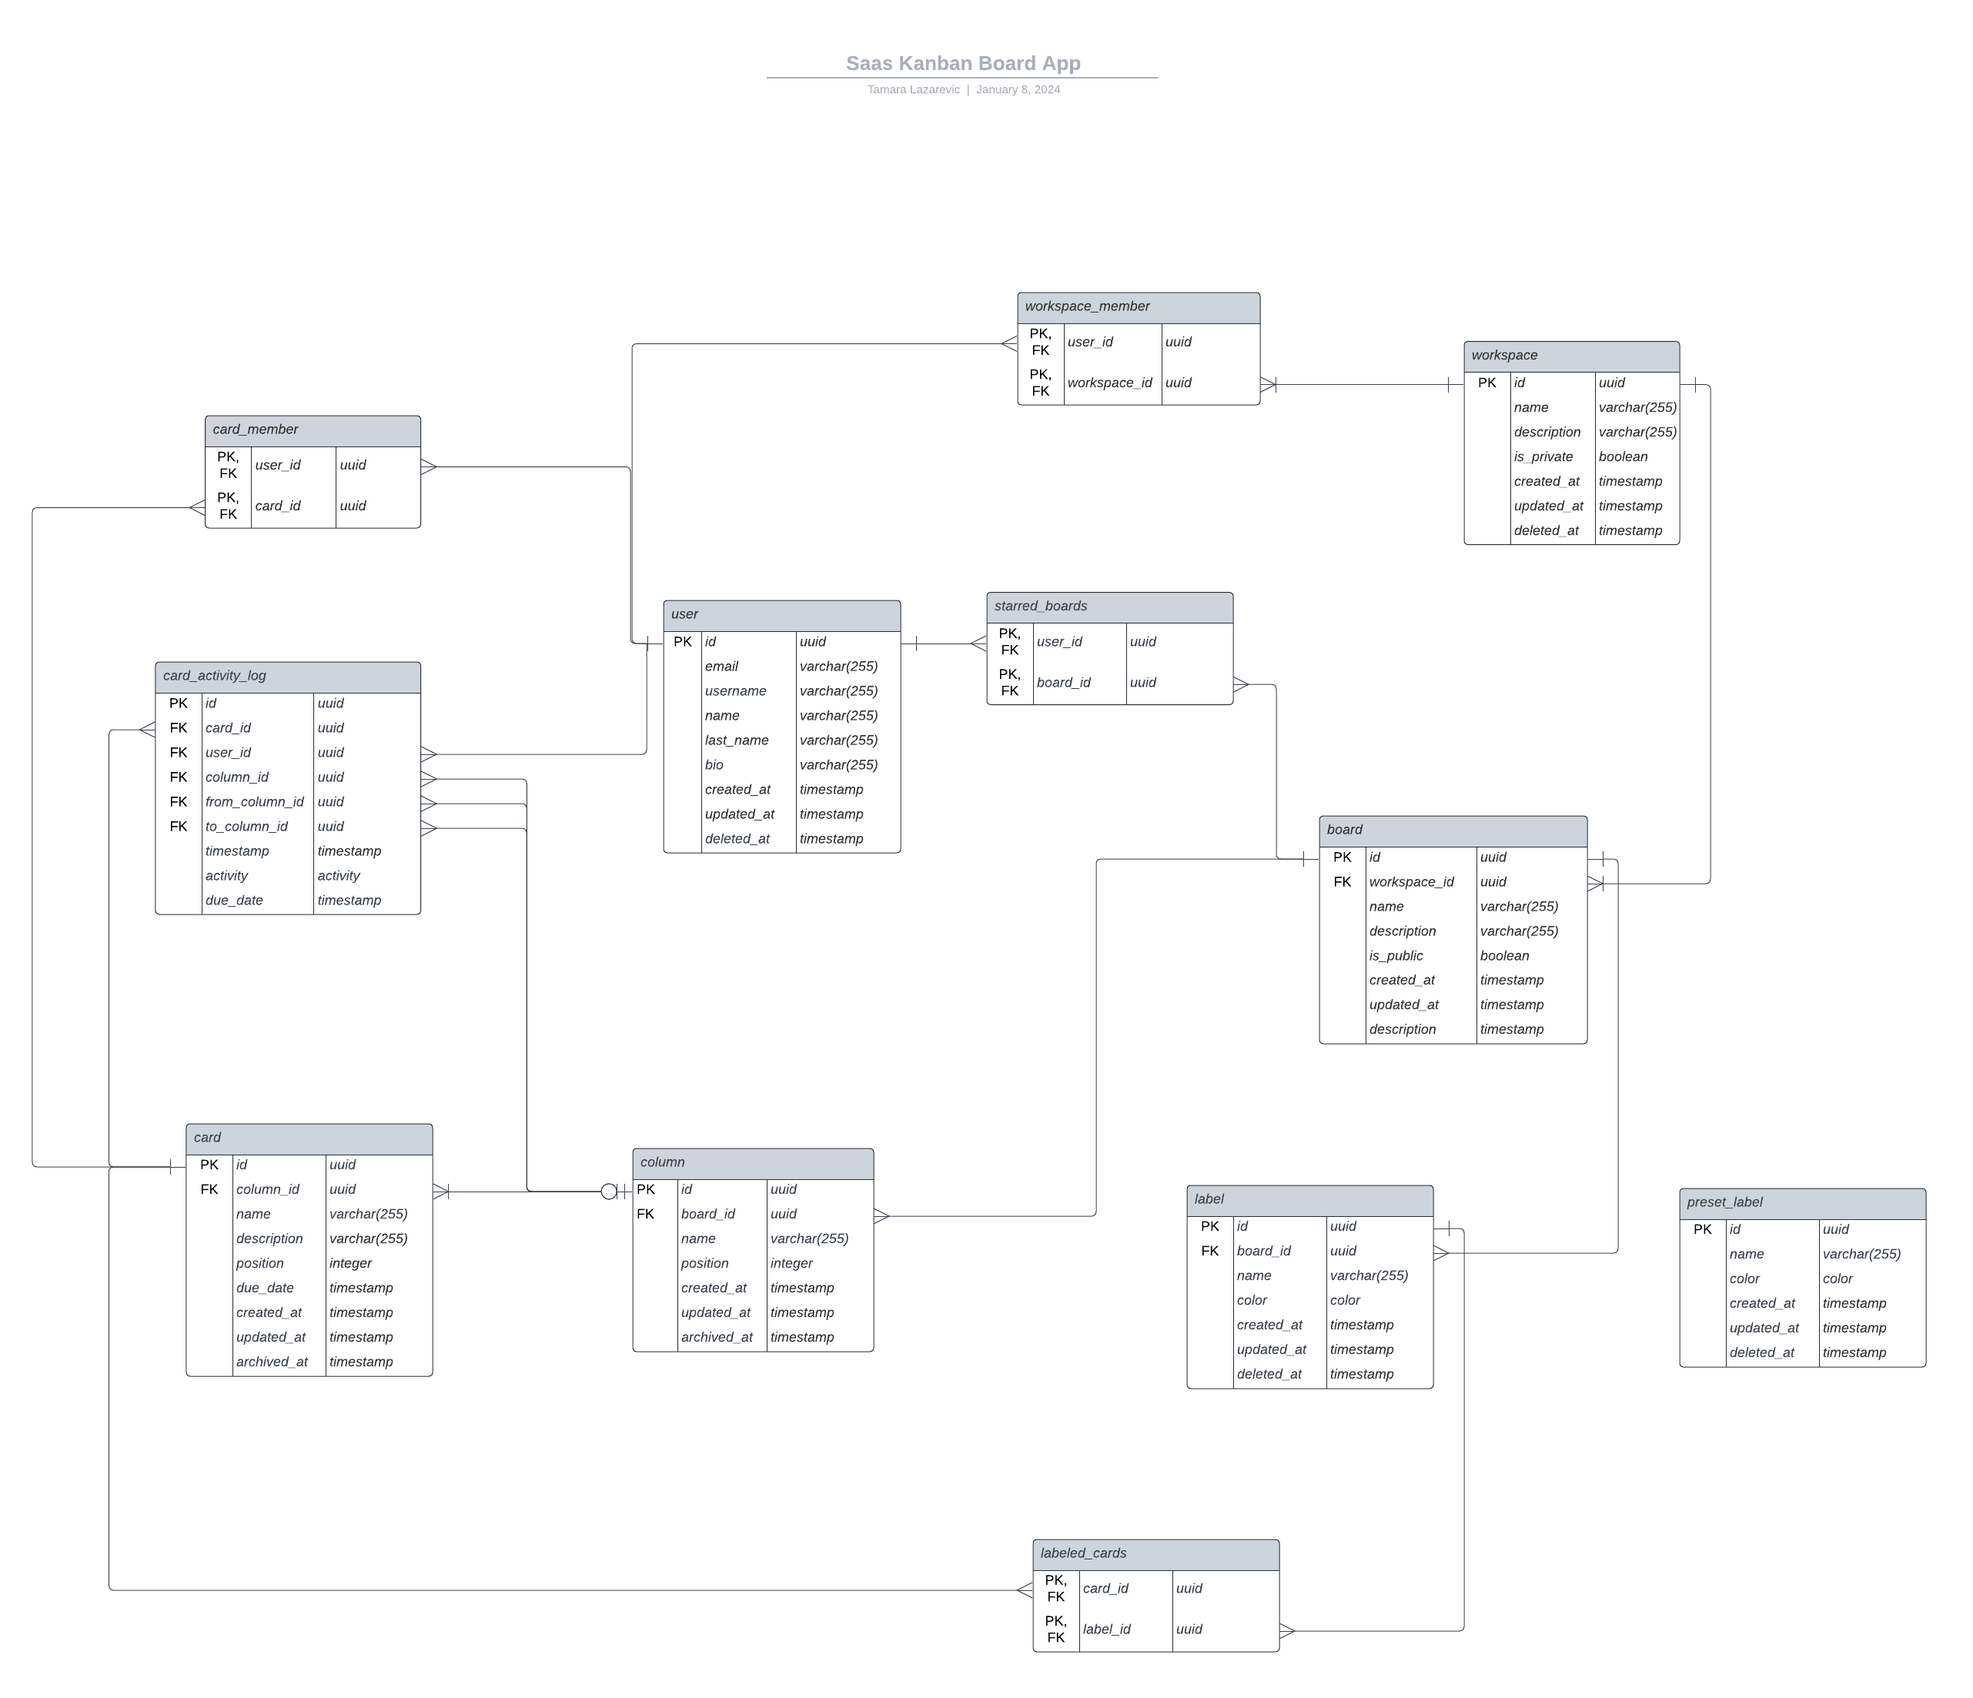
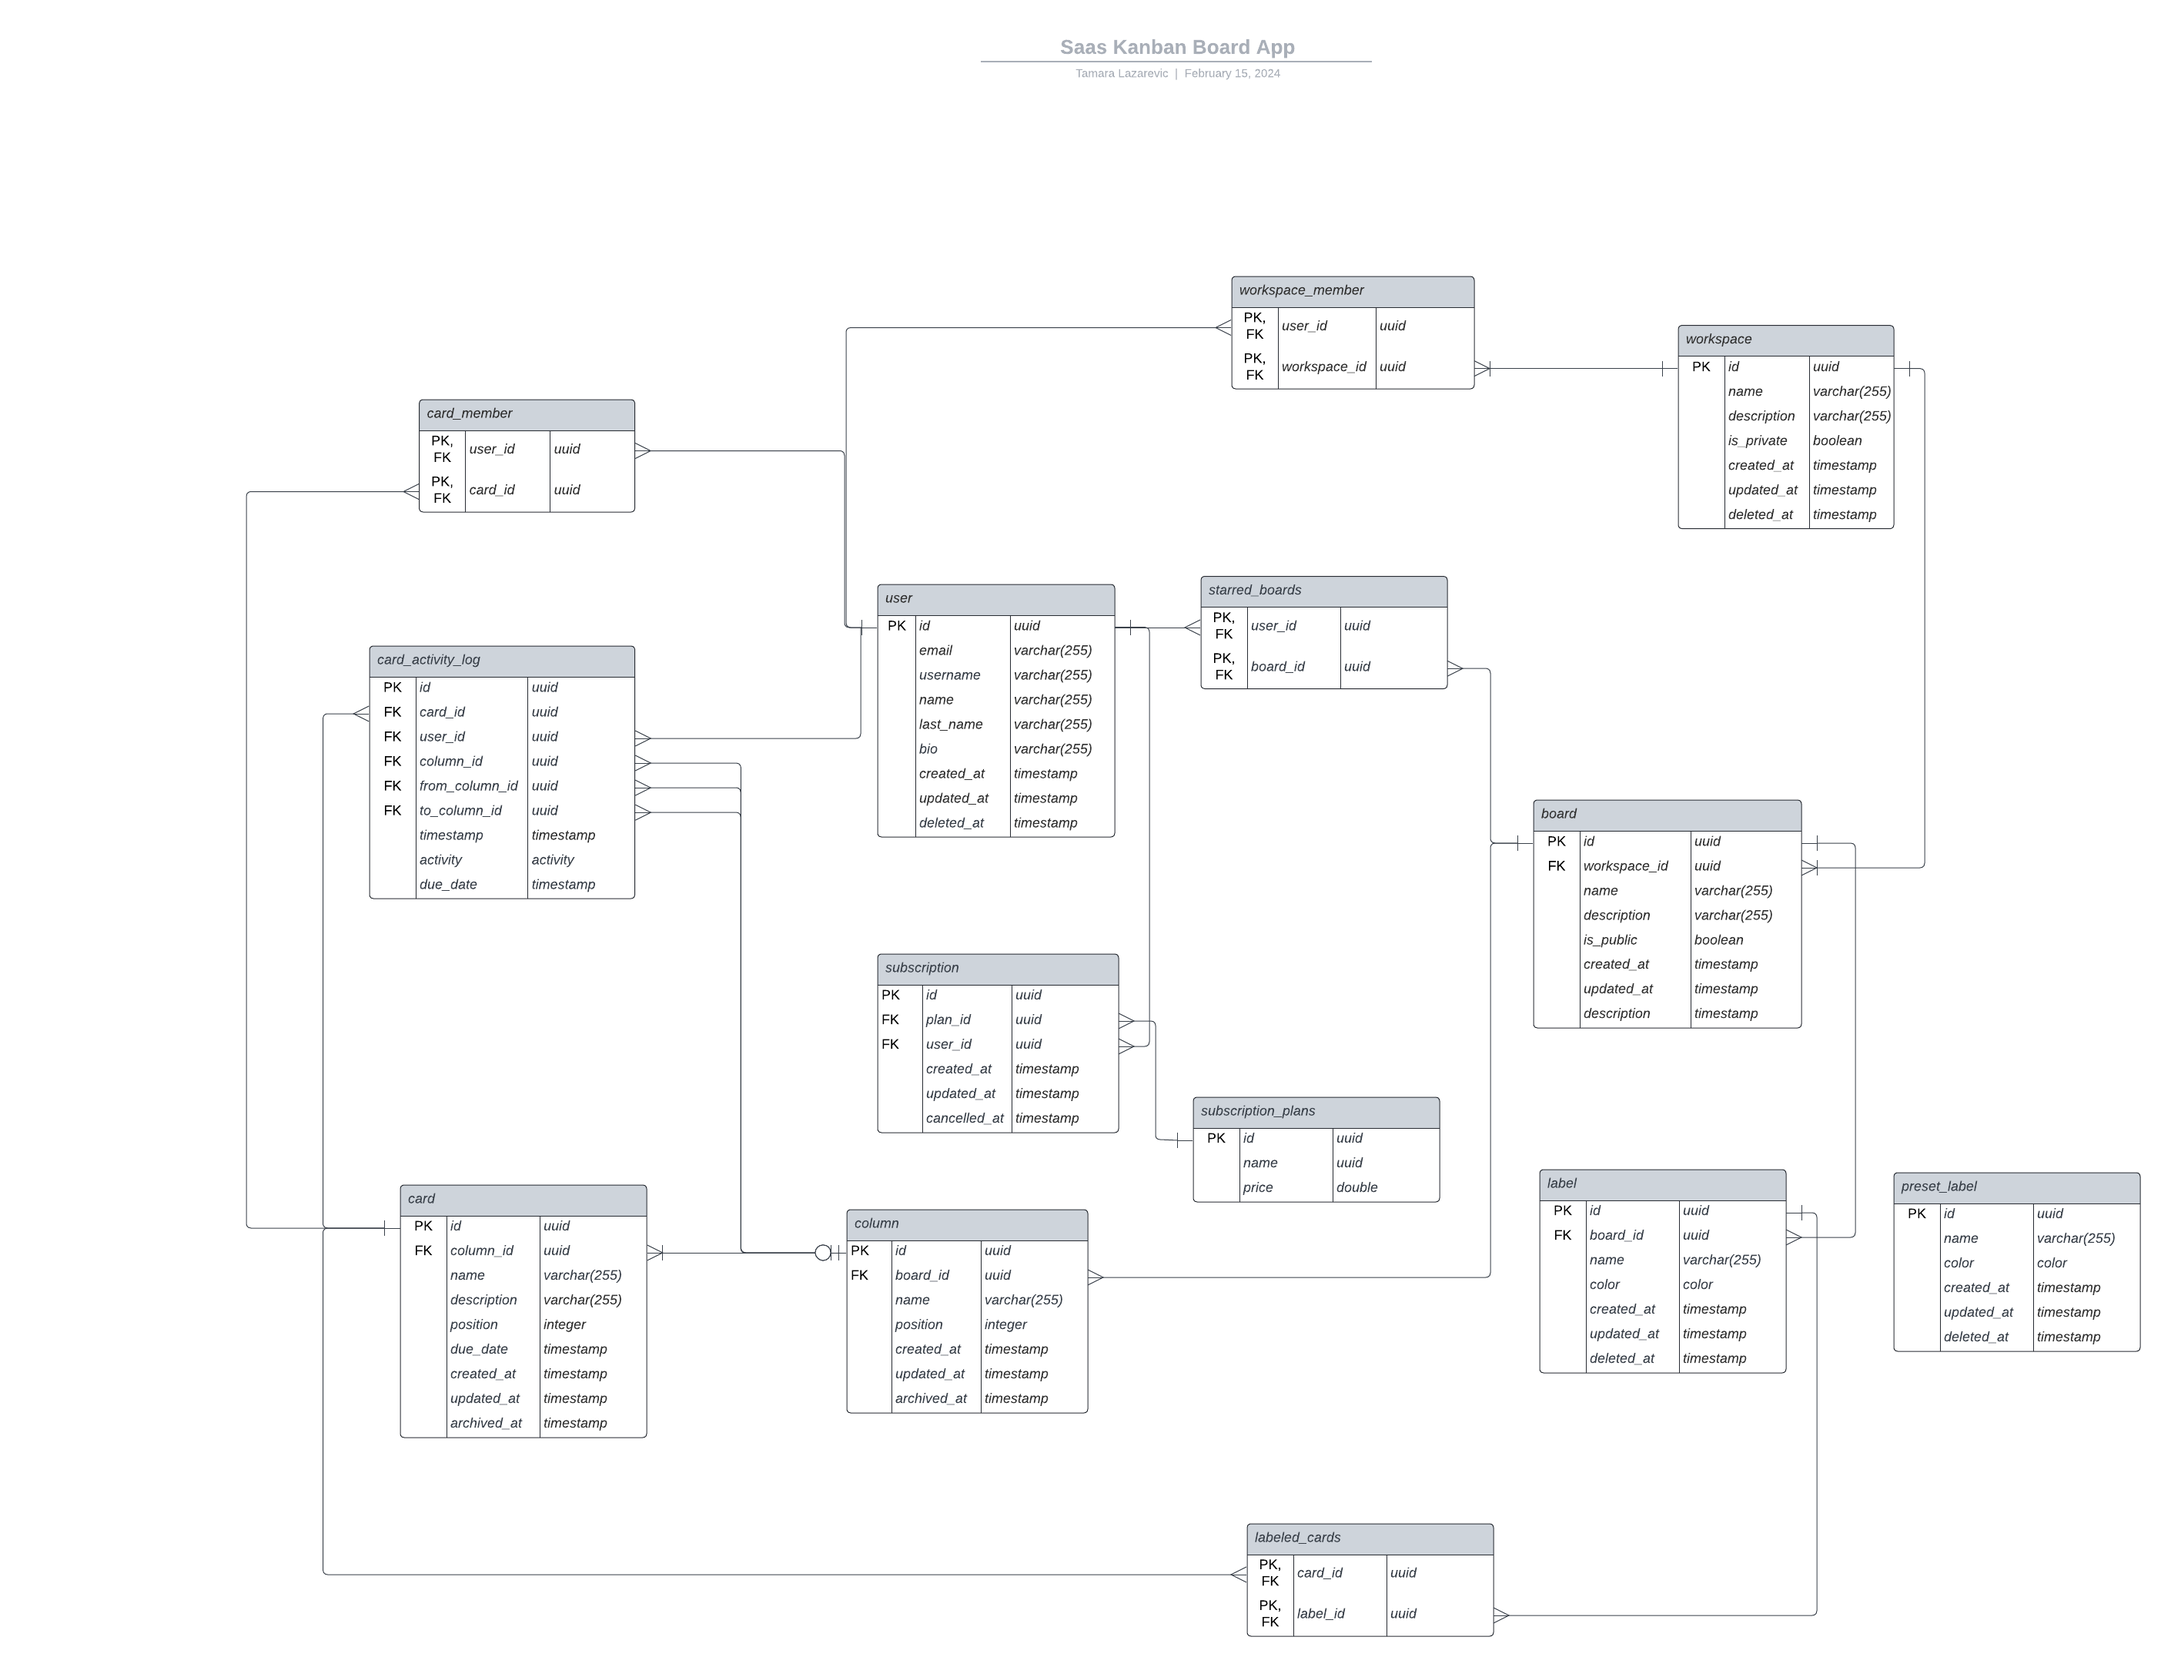
Implement subscriptions (#13)
* Get started with subscriptions

* Update schema diagram

* Improve subscription page

* Implement updating subscription

* Handle subscriptions on signup. Improve upgrade page.

diff --git a/saas-app/app/kandy/routes/subscriptions.js b/saas-app/app/kandy/routes/subscriptions.js
@@ -1,0 +1,58 @@
+const { PrismaClient } = require('@prisma/client');
+const { v4: uuidv4 } = require('uuid');
+
+var express = require('express');
+var router = express.Router();
+
+const prisma = new PrismaClient()
+
+router.get('/', async function (req, res, next) {
+    var userId = req.user.id
+
+    var subsciption = await prisma.subscriptions.findFirstOrThrow({
+        where: { user_id: userId, cancelled_at: null }
+
+    })
+    res.render('subscriptions', { subsciptionPlanId: subsciption.plan_id });
+});
+
+router.get('/update/:selected_plan', async function (req, res, next) {
+    var userId = req.user.id
+    var selectedPlan = req.params.selected_plan
+
+    try {
+
+        var currentSubscription = await prisma.subscriptions.findFirstOrThrow({
+            where: { user_id: userId, cancelled_at: null }
+
+        })
+
+        if (selectedPlan == currentSubscription.plan_id) {
+            console.log('plan already active')
+            res.locals.errors = ["The selected plan is already active."]
+            res.status(400).render('subscriptions', { subsciptionPlanId: currentSubscription.plan_id })
+            return
+        }
+
+        else {
+
+            await prisma.$transaction([
+                prisma.subscriptions.update({
+                    where: { id: currentSubscription.id },
+                    data: { cancelled_at: new Date() }
+                }),
+                prisma.subscriptions.create({ data: { id: uuidv4(), user_id: userId, plan_id: selectedPlan } })
+
+            ])
+
+            res.redirect('/subscriptions');
+        }
+
+    } catch (error) {
+        console.error('Error updating plan:', error);
+        res.status(500).json({ error: 'Internal Server Error' });
+
+    }
+});
+
+module.exports = router;

diff --git a/saas-app/app/kandy/public/stylesheets/subscriptions.css b/saas-app/app/kandy/public/stylesheets/subscriptions.css
@@ -1,0 +1,75 @@
+.title {
+    text-align: center;
+    margin-top: 2rem;
+    margin-bottom: 2rem;
+}
+
+.error {
+    color: #ff6b6b;
+    text-align: center;
+}
+
+.content-wrapper {
+    display: flex;
+    flex-wrap: wrap;
+    justify-content: center;
+    gap: 1rem;
+}
+
+.card--subscription {
+    width: 25rem;
+    height: 25rem;
+    background-color: rgba(252, 248, 243, 0.594);
+    border-radius: 7px;
+    box-shadow: 0 4px 6px rgba(0, 0, 0, 0.1);
+    margin-bottom: 1rem;
+}
+
+.card__body {
+    padding: 1rem;
+    height: 100%;
+    display: flex;
+    flex-direction: column;
+}
+
+.card__title {
+    font-size: 3rem;
+    margin-bottom: 0.5rem;
+}
+
+.card__text {
+    margin-top: 2rem;
+}
+
+.price {
+    font-size: large;
+    font-weight: bold;
+    margin-bottom: 2rem;
+}
+
+.btn {
+    display: block;
+    width: 100%;
+    text-align: center;
+}
+
+.btn--subscription {
+    background-color: #6fadc7;
+    color: #ffffff;
+}
+
+.btn--disabled {
+    background-color: #6c757d;
+    color: #ffffff;
+}
+
+@media (max-width: 768px) {
+    .content-wrapper {
+        flex-direction: column;
+        align-items: center;
+    }
+
+    .card--subscription {
+        width: 90%;
+    }
+}

diff --git a/saas-app/app/kandy/app.js b/saas-app/app/kandy/app.js
@@ -7,9 +7,10 @@ var cookieParser = require('cookie-parser');
 var logger = require('morgan');
 
 var indexRouter = require('./routes/index');
+var authRouter = require('./routes/auth');
 var workspaceRouter = require('./routes/workspaces');
 var boardsRouter = require('./routes/boards');
-var authRouter = require('./routes/auth');
+var subscriptionRouter = require('./routes/subscriptions');
 
 const auth = require('./middleware/auth');
 
@@ -31,9 +32,11 @@ app.use(cookieParser());
 app.use(express.static(path.join(__dirname, 'public')));
 
 app.use('/', indexRouter);
+app.use('/auth', authRouter);
 app.use('/workspaces', auth, workspaceRouter);
 app.use('/boards', auth, boardsRouter);
-app.use('/auth', authRouter);
+app.use('/subscriptions', auth, subscriptionRouter);
+
 
 app.use(function (req, res, next) {
   res.status(404).render('404');

diff --git a/saas-app/app/kandy/routes/workspaces.js b/saas-app/app/kandy/routes/workspaces.js
@@ -24,18 +24,20 @@ router.get('/', async (req, res, next) => {
   }
 });
 
-router.put('/:workspaceId', async (req, res) => {
+
+router.put('/', async (req, res) => {
   const userId = req.user.id;
 
   data = req.body
   data["id"] = uuidv4()
+  data['user_id'] = userId
 
   try {
-    const workspaces = await prisma.workspaces.create({
+    await prisma.workspaces.create({
       data: data
     })
 
-    res.render(workspaces);
+    res.redirect('/workspaces');
   } catch (error) {
     console.error('Error creating the workspace:', error);
     res.status(500).json({ error: 'Internal Server Error' });

diff --git a/saas-app/app/kandy/routes/auth.js b/saas-app/app/kandy/routes/auth.js
@@ -141,6 +141,15 @@ router.post(
                     password: password
                 }
             });
+
+            await prisma.subscriptions.create({
+                data: {
+                    id: uuidv4(),
+                    plan_id: 'c037947d-22a7-422c-8147-c131d9a66c62',
+                    user_id: newUser.id,
+                }
+            })
+
             const payload = {
                 user: {
                     id: newUser.id

diff --git a/saas-app/app/kandy/public/stylesheets/style.css b/saas-app/app/kandy/public/stylesheets/style.css
@@ -5,6 +5,10 @@ body {
   background-color: #f5e1f4;
 }
 
+.content {
+  margin: 20px;
+}
+
 .board-name {
   font-family: Arial, sans-serif;
   font-size: 24px;

diff --git a/saas-app/app/kandy/public/stylesheets/workspaces.css b/saas-app/app/kandy/public/stylesheets/workspaces.css
@@ -1,0 +1,3 @@
+.card {
+    width: 18rem
+}
